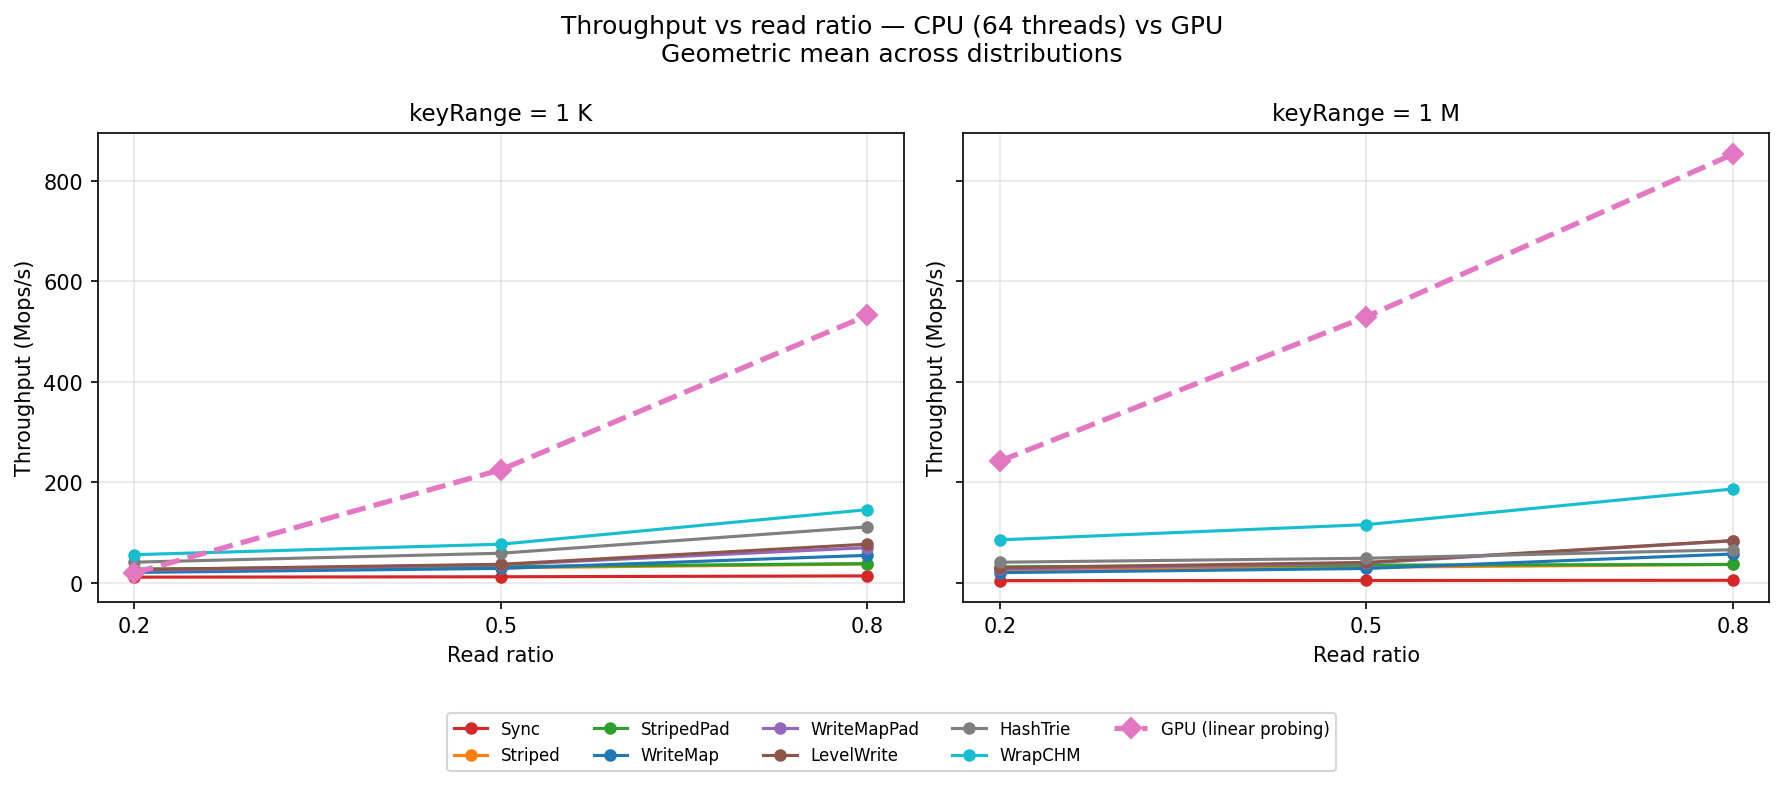
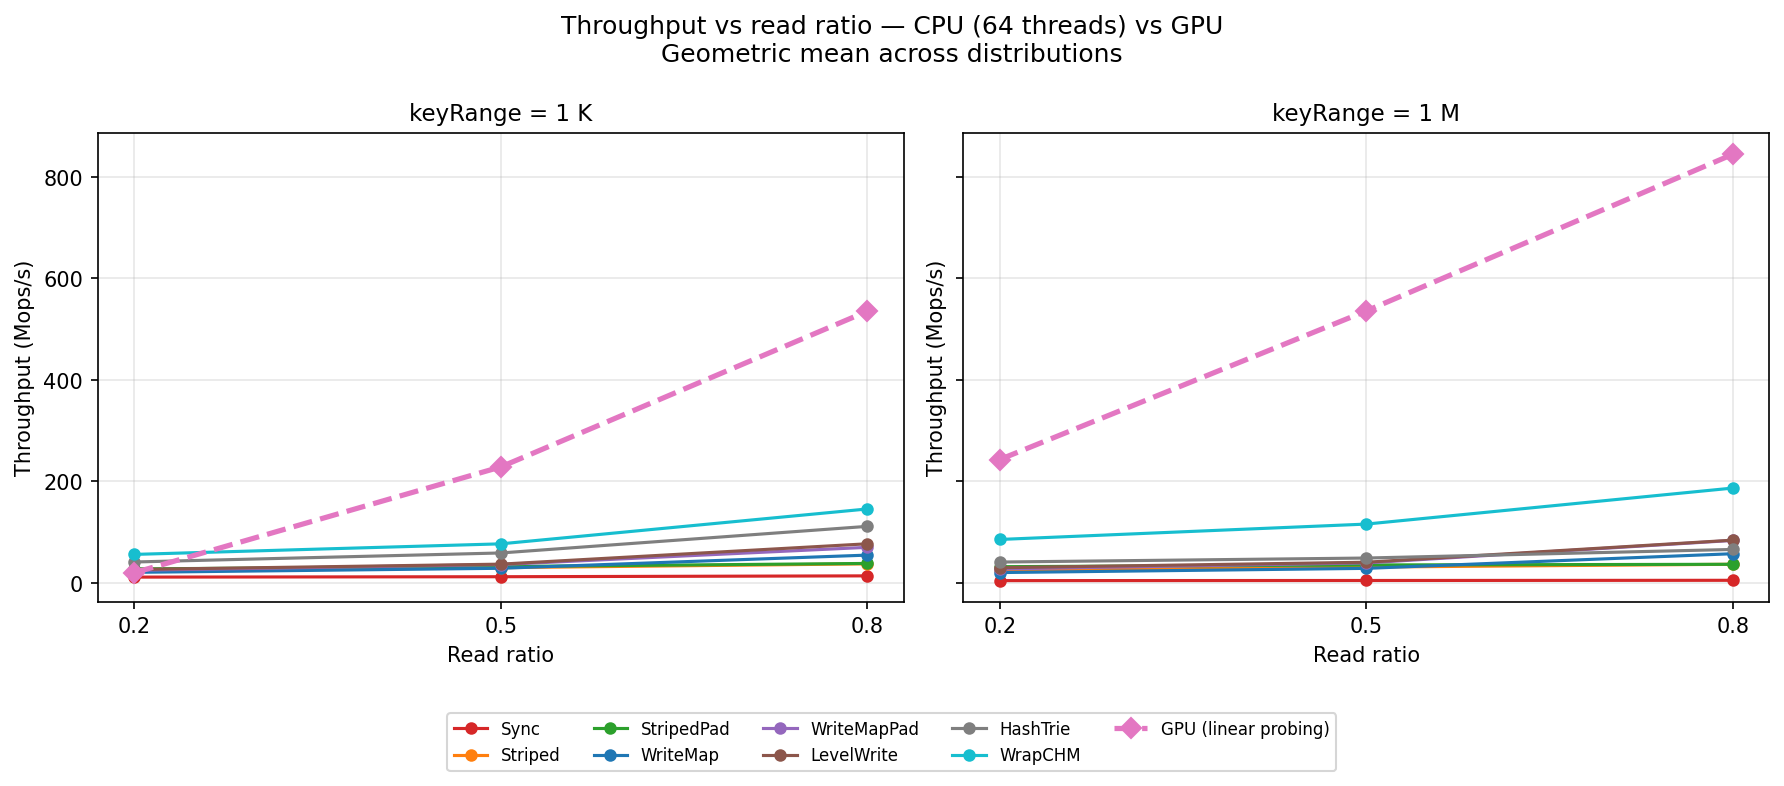
we done

diff --git a/main/compare_hardware.py b/main/compare_hardware.py
@@ -222,7 +222,7 @@ def fig_cpu_gpu_bar(cpu: pd.DataFrame, gpu: pd.DataFrame, out_dir: str):
 
     x = np.arange(len(labels))
     w = 0.35
-    fig, ax = plt.subplots(figsize=(16, 5))
+    fig, ax = plt.subplots(figsize=(20, 8))
     bars_cpu = ax.bar(x - w/2, cpu_scores, w,
                       label=f"WrapCHM (CPU, {peak_thread}t)",
                       color=IMPL_COLORS["WrapConcurrentHashMap"])
@@ -230,10 +230,12 @@ def fig_cpu_gpu_bar(cpu: pd.DataFrame, gpu: pd.DataFrame, out_dir: str):
                       label="GPU (linear probing)",
                       color=IMPL_COLORS["GPUHashTable"])
     ax.set_xticks(x)
-    ax.set_xticklabels(labels, fontsize=7)
-    ax.set_ylabel("Throughput (Mops/s)")
-    ax.set_title(f"Best CPU (WrapCHM @ {peak_thread} threads) vs GPU — all 18 configurations")
-    ax.legend()
+    ax.set_xticklabels(labels, fontsize=11)
+    ax.set_ylabel("Throughput (Mops/s)", fontsize=13)
+    ax.set_title(f"Best CPU (WrapCHM @ {peak_thread} threads) vs GPU — all 18 configurations",
+                 fontsize=14)
+    ax.tick_params(axis="y", labelsize=11)
+    ax.legend(fontsize=12)
     ax.grid(axis="y", alpha=0.3)
     plt.tight_layout()
     path = os.path.join(out_dir, "fig2_cpu_peak_vs_gpu.png")